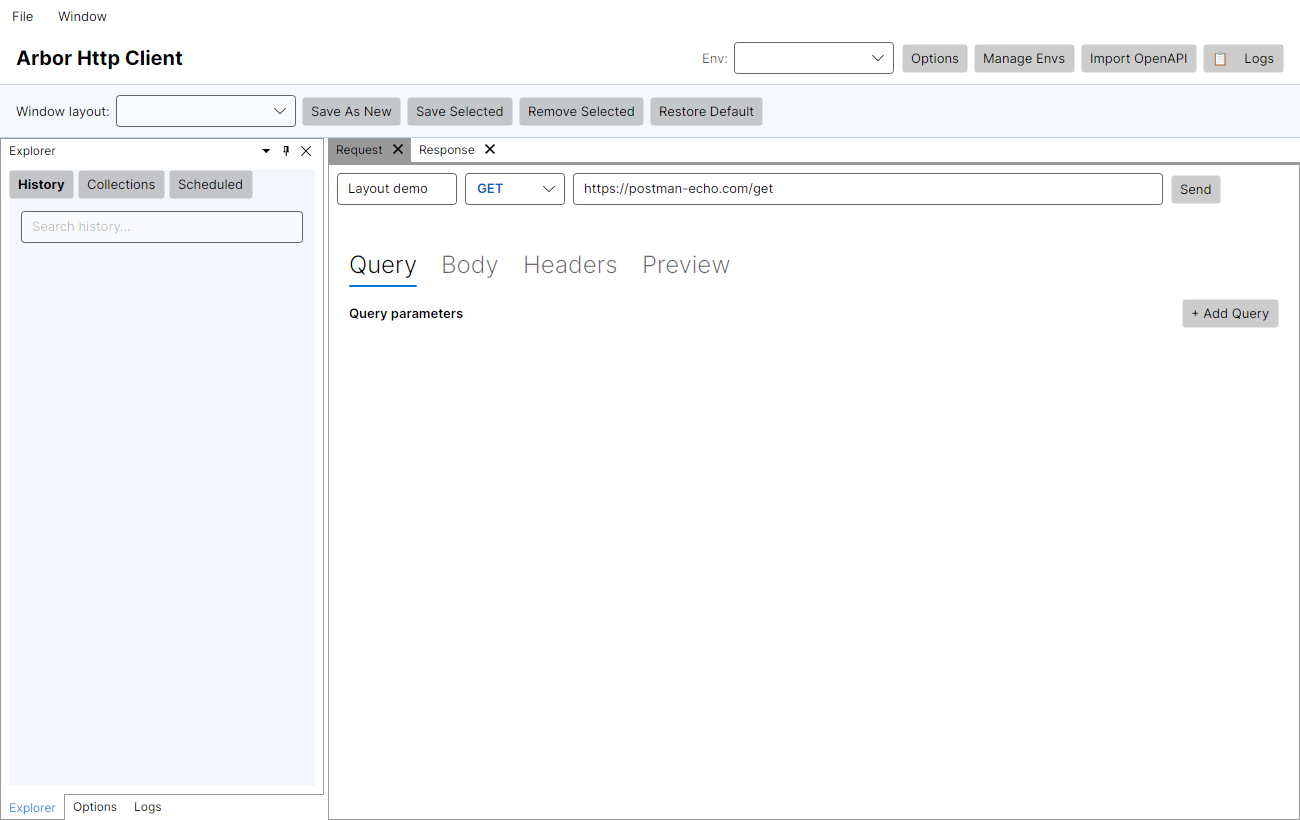
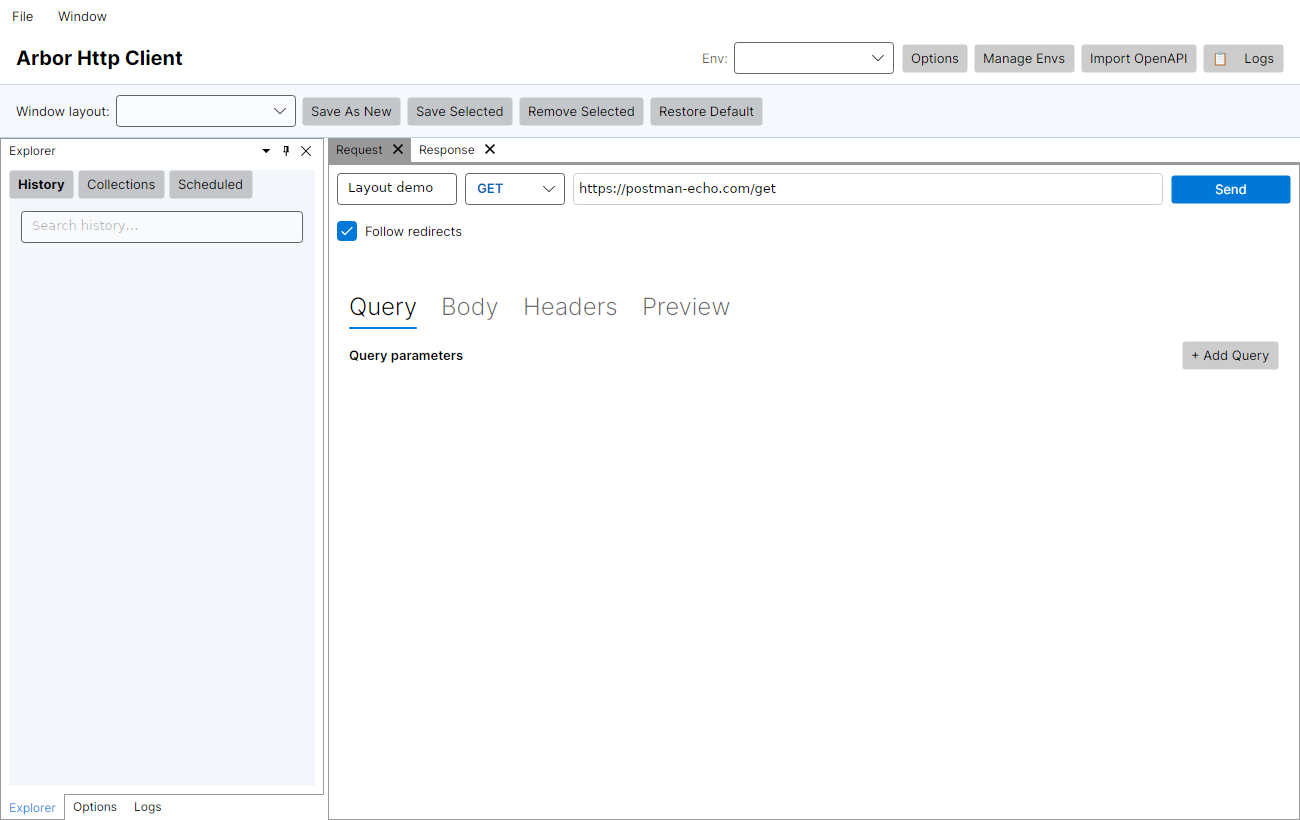
Color-code response status, show time/size, accent Send button, Ctrl+Enter, URL placeholder
Agent-Logs-Url: https://github.com/niklaslundberg/Arbor.HttpClient/sessions/2c22f1f8-fd90-4e84-97db-15afbf3fa5e5

diff --git a/src/Arbor.HttpClient.Desktop/ViewModels/MainWindowViewModel.cs b/src/Arbor.HttpClient.Desktop/ViewModels/MainWindowViewModel.cs
@@ -96,6 +96,28 @@ public partial class MainWindowViewModel : ViewModelBase, IDisposable
     [ObservableProperty]
     private string _responseStatus = string.Empty;
 
+    /// <summary>
+    /// Numeric HTTP status code for the last completed response (0 when no response yet
+    /// or the request failed before receiving one). Used by the UI to color-code the
+    /// response status by family (1xx/2xx/3xx/4xx/5xx).
+    /// </summary>
+    [ObservableProperty]
+    private int _responseStatusCode;
+
+    /// <summary>
+    /// Human-readable elapsed time for the last response, e.g. "142 ms" or "1.23 s".
+    /// Empty when no response has been received.
+    /// </summary>
+    [ObservableProperty]
+    private string _responseTimeDisplay = string.Empty;
+
+    /// <summary>
+    /// Human-readable size of the last response body, e.g. "512 B", "1.3 KB", "4.7 MB".
+    /// Empty when no response has been received.
+    /// </summary>
+    [ObservableProperty]
+    private string _responseSizeDisplay = string.Empty;
+
     [ObservableProperty]
     private string _responseBody = string.Empty;
 
@@ -2121,6 +2143,9 @@ public partial class MainWindowViewModel : ViewModelBase, IDisposable
                     FollowRedirectsForRequest));
 
             ResponseStatus = $"{response.StatusCode} {response.ReasonPhrase}";
+            ResponseStatusCode = response.StatusCode;
+            ResponseTimeDisplay = FormatElapsedMilliseconds(response.ElapsedMilliseconds);
+            ResponseSizeDisplay = FormatByteSize(response.BodyBytes?.LongLength ?? 0);
             _lastResponseBodyBytes = response.BodyBytes ?? Array.Empty<byte>();
             RawResponseBody = response.Body;
 
@@ -2140,7 +2165,54 @@ public partial class MainWindowViewModel : ViewModelBase, IDisposable
         {
             _httpRequestsLogger.Error(exception, "Manual request failed");
             ErrorMessage = exception.Message;
+            ResponseStatusCode = 0;
+            ResponseTimeDisplay = string.Empty;
+            ResponseSizeDisplay = string.Empty;
         }
+    }
+
+    public static string FormatElapsedMilliseconds(double milliseconds)
+    {
+        if (milliseconds < 0)
+        {
+            milliseconds = 0;
+        }
+
+        if (milliseconds < 1000)
+        {
+            return $"{Math.Round(milliseconds)} ms";
+        }
+
+        var seconds = milliseconds / 1000.0;
+        return seconds < 60
+            ? $"{seconds.ToString("0.00", System.Globalization.CultureInfo.InvariantCulture)} s"
+            : $"{((long)seconds) / 60} min {((long)seconds) % 60} s";
+    }
+
+    public static string FormatByteSize(long byteCount)
+    {
+        if (byteCount < 0)
+        {
+            byteCount = 0;
+        }
+
+        const double kilobyte = 1024.0;
+        const double megabyte = kilobyte * 1024.0;
+        const double gigabyte = megabyte * 1024.0;
+
+        if (byteCount < kilobyte)
+        {
+            return $"{byteCount} B";
+        }
+        if (byteCount < megabyte)
+        {
+            return $"{(byteCount / kilobyte).ToString("0.##", System.Globalization.CultureInfo.InvariantCulture)} KB";
+        }
+        if (byteCount < gigabyte)
+        {
+            return $"{(byteCount / megabyte).ToString("0.##", System.Globalization.CultureInfo.InvariantCulture)} MB";
+        }
+        return $"{(byteCount / gigabyte).ToString("0.##", System.Globalization.CultureInfo.InvariantCulture)} GB";
     }
 
     private async Task LoadHistoryAsync(CancellationToken cancellationToken = default)

diff --git a/src/Arbor.HttpClient.Desktop.E2E.Tests/ResponseStatusFormatTests.cs b/src/Arbor.HttpClient.Desktop.E2E.Tests/ResponseStatusFormatTests.cs
@@ -1,0 +1,72 @@
+using Arbor.HttpClient.Desktop.Converters;
+using Arbor.HttpClient.Desktop.ViewModels;
+using AwesomeAssertions;
+
+namespace Arbor.HttpClient.Desktop.E2E.Tests;
+
+/// <summary>
+/// Pure in-process tests for the UX helpers introduced to surface response
+/// metadata (time / size / color-coded status) to the Response view. These do
+/// not require the Avalonia headless session.
+/// </summary>
+public class ResponseStatusFormatTests
+{
+    [Theory]
+    [InlineData(0, "0 ms")]
+    [InlineData(12.4, "12 ms")]
+    [InlineData(999, "999 ms")]
+    [InlineData(1000, "1.00 s")]
+    [InlineData(1234, "1.23 s")]
+    [InlineData(59_000, "59.00 s")]
+    [InlineData(60_000, "1 min 0 s")]
+    [InlineData(75_500, "1 min 15 s")]
+    public void FormatElapsedMilliseconds_ShouldProduceHumanReadableOutput(double milliseconds, string expected)
+    {
+        MainWindowViewModel.FormatElapsedMilliseconds(milliseconds).Should().Be(expected);
+    }
+
+    [Fact]
+    public void FormatElapsedMilliseconds_ShouldClampNegativeInput()
+    {
+        MainWindowViewModel.FormatElapsedMilliseconds(-5).Should().Be("0 ms");
+    }
+
+    [Theory]
+    [InlineData(0L, "0 B")]
+    [InlineData(1L, "1 B")]
+    [InlineData(1023L, "1023 B")]
+    [InlineData(1024L, "1 KB")]
+    [InlineData(1536L, "1.5 KB")]
+    [InlineData(1024L * 1024, "1 MB")]
+    [InlineData((long)(1024 * 1024 * 2.5), "2.5 MB")]
+    [InlineData(1024L * 1024 * 1024, "1 GB")]
+    public void FormatByteSize_ShouldProduceHumanReadableOutput(long bytes, string expected)
+    {
+        MainWindowViewModel.FormatByteSize(bytes).Should().Be(expected);
+    }
+
+    [Fact]
+    public void FormatByteSize_ShouldClampNegativeInput()
+    {
+        MainWindowViewModel.FormatByteSize(-42).Should().Be("0 B");
+    }
+
+    [Theory]
+    [InlineData(100)]   // 1xx informational
+    [InlineData(200)]   // 2xx success
+    [InlineData(302)]   // 3xx redirect
+    [InlineData(404)]   // 4xx client error
+    [InlineData(500)]   // 5xx server error
+    [InlineData(0)]     // no response yet
+    [InlineData(999)]   // out of normal range
+    public void StatusCodeToColorConverter_ShouldReturnABrush_ForEveryStatusFamily(int statusCode)
+    {
+        var brush = StatusCodeToColorConverter.Instance.Convert(
+            statusCode,
+            typeof(Avalonia.Media.IBrush),
+            parameter: null,
+            culture: System.Globalization.CultureInfo.InvariantCulture);
+
+        brush.Should().BeAssignableTo<Avalonia.Media.IBrush>();
+    }
+}

diff --git a/src/Arbor.HttpClient.Desktop.E2E.Tests/AccessibilityContrastTests.cs b/src/Arbor.HttpClient.Desktop.E2E.Tests/AccessibilityContrastTests.cs
@@ -101,6 +101,15 @@ public class AccessibilityContrastTests
     [InlineData(DarkVariableBracket, DarkPanel, "Variable bracket / dark panel")]
     [InlineData(DarkVariableName, DarkSurface, "Variable name / dark surface")]
     [InlineData(DarkVariableName, DarkPanel, "Variable name / dark panel")]
+    // Response-status brushes (same palette values as above, re-verified explicitly).
+    [InlineData("#6FCF97", DarkSurface, "StatusSuccessBrush / dark surface")]
+    [InlineData("#6FCF97", DarkPanel, "StatusSuccessBrush / dark panel")]
+    [InlineData("#4FC3F7", DarkSurface, "StatusRedirectBrush / dark surface")]
+    [InlineData("#4FC3F7", DarkPanel, "StatusRedirectBrush / dark panel")]
+    [InlineData("#FFB74D", DarkSurface, "StatusClientErrorBrush / dark surface")]
+    [InlineData("#FFB74D", DarkPanel, "StatusClientErrorBrush / dark panel")]
+    [InlineData("#EF5350", DarkSurface, "StatusServerErrorBrush / dark surface")]
+    [InlineData("#EF5350", DarkPanel, "StatusServerErrorBrush / dark panel")]
     public void DarkTheme_ColorPair_MeetsWcagAA(string foreground, string background, string label)
     {
         var ratio = ContrastRatio(foreground, background);
@@ -130,6 +139,15 @@ public class AccessibilityContrastTests
     [InlineData(LightVariableBracket, LightPanel, "Variable bracket / light panel")]
     [InlineData(LightVariableName, LightSurface, "Variable name / light surface")]
     [InlineData(LightVariableName, LightPanel, "Variable name / light panel")]
+    // Response-status brushes (same palette values as above, re-verified explicitly).
+    [InlineData("#107C10", LightSurface, "StatusSuccessBrush / light surface")]
+    [InlineData("#107C10", LightPanel, "StatusSuccessBrush / light panel")]
+    [InlineData("#0065BD", LightSurface, "StatusRedirectBrush / light surface")]
+    [InlineData("#0065BD", LightPanel, "StatusRedirectBrush / light panel")]
+    [InlineData("#875F09", LightSurface, "StatusClientErrorBrush / light surface")]
+    [InlineData("#875F09", LightPanel, "StatusClientErrorBrush / light panel")]
+    [InlineData("#C50F1F", LightSurface, "StatusServerErrorBrush / light surface")]
+    [InlineData("#C50F1F", LightPanel, "StatusServerErrorBrush / light panel")]
     public void LightTheme_ColorPair_MeetsWcagAA(string foreground, string background, string label)
     {
         var ratio = ContrastRatio(foreground, background);

diff --git a/src/Arbor.HttpClient.Desktop/Converters/StatusCodeToColorConverter.cs b/src/Arbor.HttpClient.Desktop/Converters/StatusCodeToColorConverter.cs
@@ -1,0 +1,62 @@
+using System;
+using System.Globalization;
+using Avalonia;
+using Avalonia.Data.Converters;
+using Avalonia.Media;
+
+namespace Arbor.HttpClient.Desktop.Converters;
+
+/// <summary>
+/// Maps an HTTP numeric status code to a color-family brush so the response status
+/// line can be scanned at a glance (matches the convention used by Hoppscotch,
+/// Insomnia, and Postman). Unknown / missing codes fall back to the default
+/// method-fallback brush, which has a WCAG-verified contrast ratio against the
+/// app's surfaces.
+/// </summary>
+public sealed class StatusCodeToColorConverter : IValueConverter
+{
+    public static readonly StatusCodeToColorConverter Instance = new();
+
+    public object Convert(object? value, Type targetType, object? parameter, CultureInfo culture)
+    {
+        var code = value switch
+        {
+            int i => i,
+            long l => (int)l,
+            string s when int.TryParse(s, NumberStyles.Integer, CultureInfo.InvariantCulture, out var parsed) => parsed,
+            _ => 0
+        };
+
+        var brushKey = code switch
+        {
+            >= 200 and < 300 => "StatusSuccessBrush",
+            >= 300 and < 400 => "StatusRedirectBrush",
+            >= 400 and < 500 => "StatusClientErrorBrush",
+            >= 500 and < 600 => "StatusServerErrorBrush",
+            >= 100 and < 200 => "StatusInformationalBrush",
+            _ => "MethodFallbackBrush"
+        };
+
+        return TryGetBrush(brushKey, out var brush) ? brush : Brushes.Gray;
+    }
+
+    public object ConvertBack(object? value, Type targetType, object? parameter, CultureInfo culture) =>
+        throw new NotSupportedException();
+
+    private static bool TryGetBrush(string key, out IBrush brush)
+    {
+        brush = Brushes.Transparent;
+        if (Application.Current?.TryGetResource(key, Application.Current.ActualThemeVariant, out var resource) != true)
+        {
+            return false;
+        }
+
+        if (resource is not IBrush foundBrush)
+        {
+            return false;
+        }
+
+        brush = foundBrush;
+        return true;
+    }
+}

diff --git a/src/Arbor.HttpClient.Core/Services/HttpRequestService.cs b/src/Arbor.HttpClient.Core/Services/HttpRequestService.cs
@@ -166,8 +166,18 @@ public sealed class HttpRequestService(global::System.Net.Http.HttpClient httpCl
                 bodyStopwatch.Elapsed.TotalMilliseconds,
                 totalStopwatch.Elapsed.TotalMilliseconds));
         }
+        else
+        {
+            totalStopwatch.Stop();
+        }
 
-        return new HttpResponseDetails((int)response.StatusCode, response.ReasonPhrase ?? string.Empty, responseBody, responseHeaders, responseBodyBytes);
+        return new HttpResponseDetails(
+            (int)response.StatusCode,
+            response.ReasonPhrase ?? string.Empty,
+            responseBody,
+            responseHeaders,
+            responseBodyBytes,
+            totalStopwatch.Elapsed.TotalMilliseconds);
     }
 
     private static async Task<string> ProbeTlsAsync(Uri uri, CancellationToken cancellationToken)

diff --git a/src/Arbor.HttpClient.Core.Tests/HttpRequestServiceTests.cs b/src/Arbor.HttpClient.Core.Tests/HttpRequestServiceTests.cs
@@ -28,6 +28,7 @@ public class HttpRequestServiceTests
         response.StatusCode.Should().Be(200);
         response.Body.Should().Be("hello");
         response.BodyBytes.Should().Equal(Encoding.UTF8.GetBytes("hello"));
+        response.ElapsedMilliseconds.Should().BeGreaterThanOrEqualTo(0);
         repository.Items.Should().ContainSingle();
         repository.Items[0].Name.Should().Be("Test");
         repository.Items[0].CreatedAtUtc.Should().Be(new DateTimeOffset(2026, 4, 16, 0, 0, 0, TimeSpan.Zero));

diff --git a/src/Arbor.HttpClient.Core/Models/HttpResponseDetails.cs b/src/Arbor.HttpClient.Core/Models/HttpResponseDetails.cs
@@ -5,4 +5,5 @@ public sealed record HttpResponseDetails(
     string ReasonPhrase,
     string Body,
     IReadOnlyList<(string Name, string Value)> Headers,
-    byte[]? BodyBytes = null);
+    byte[]? BodyBytes = null,
+    double ElapsedMilliseconds = 0);
